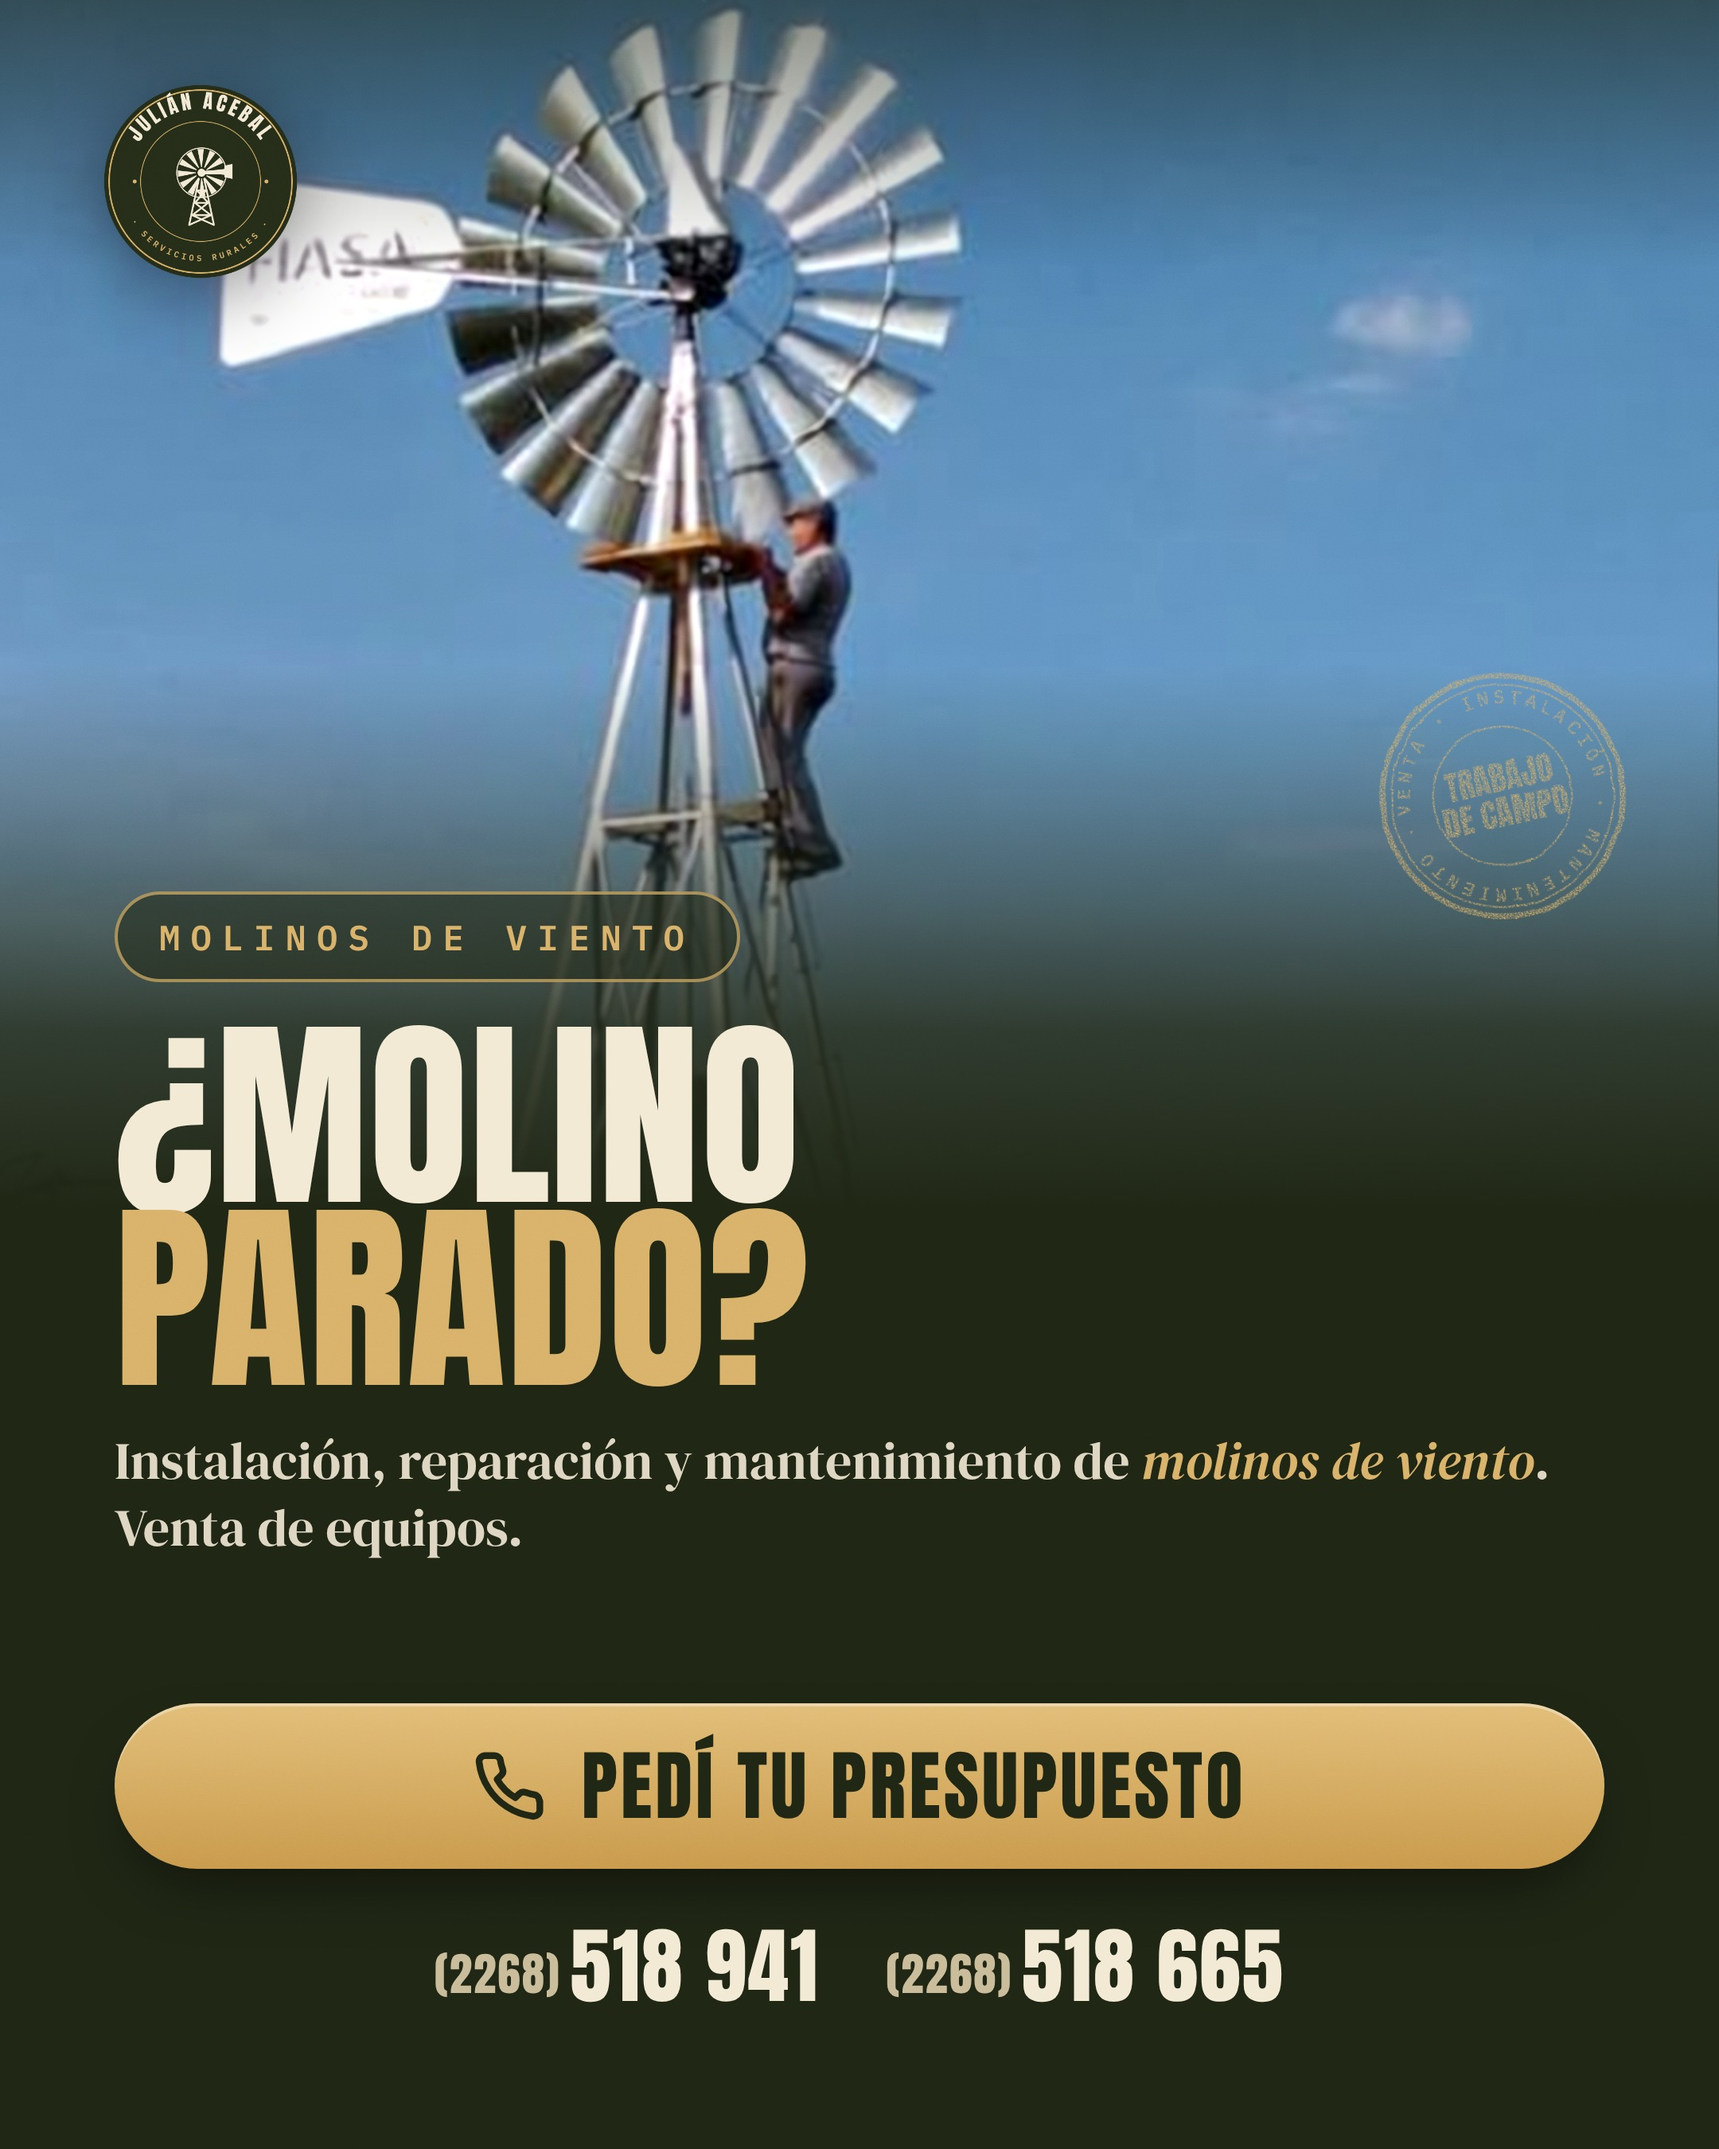
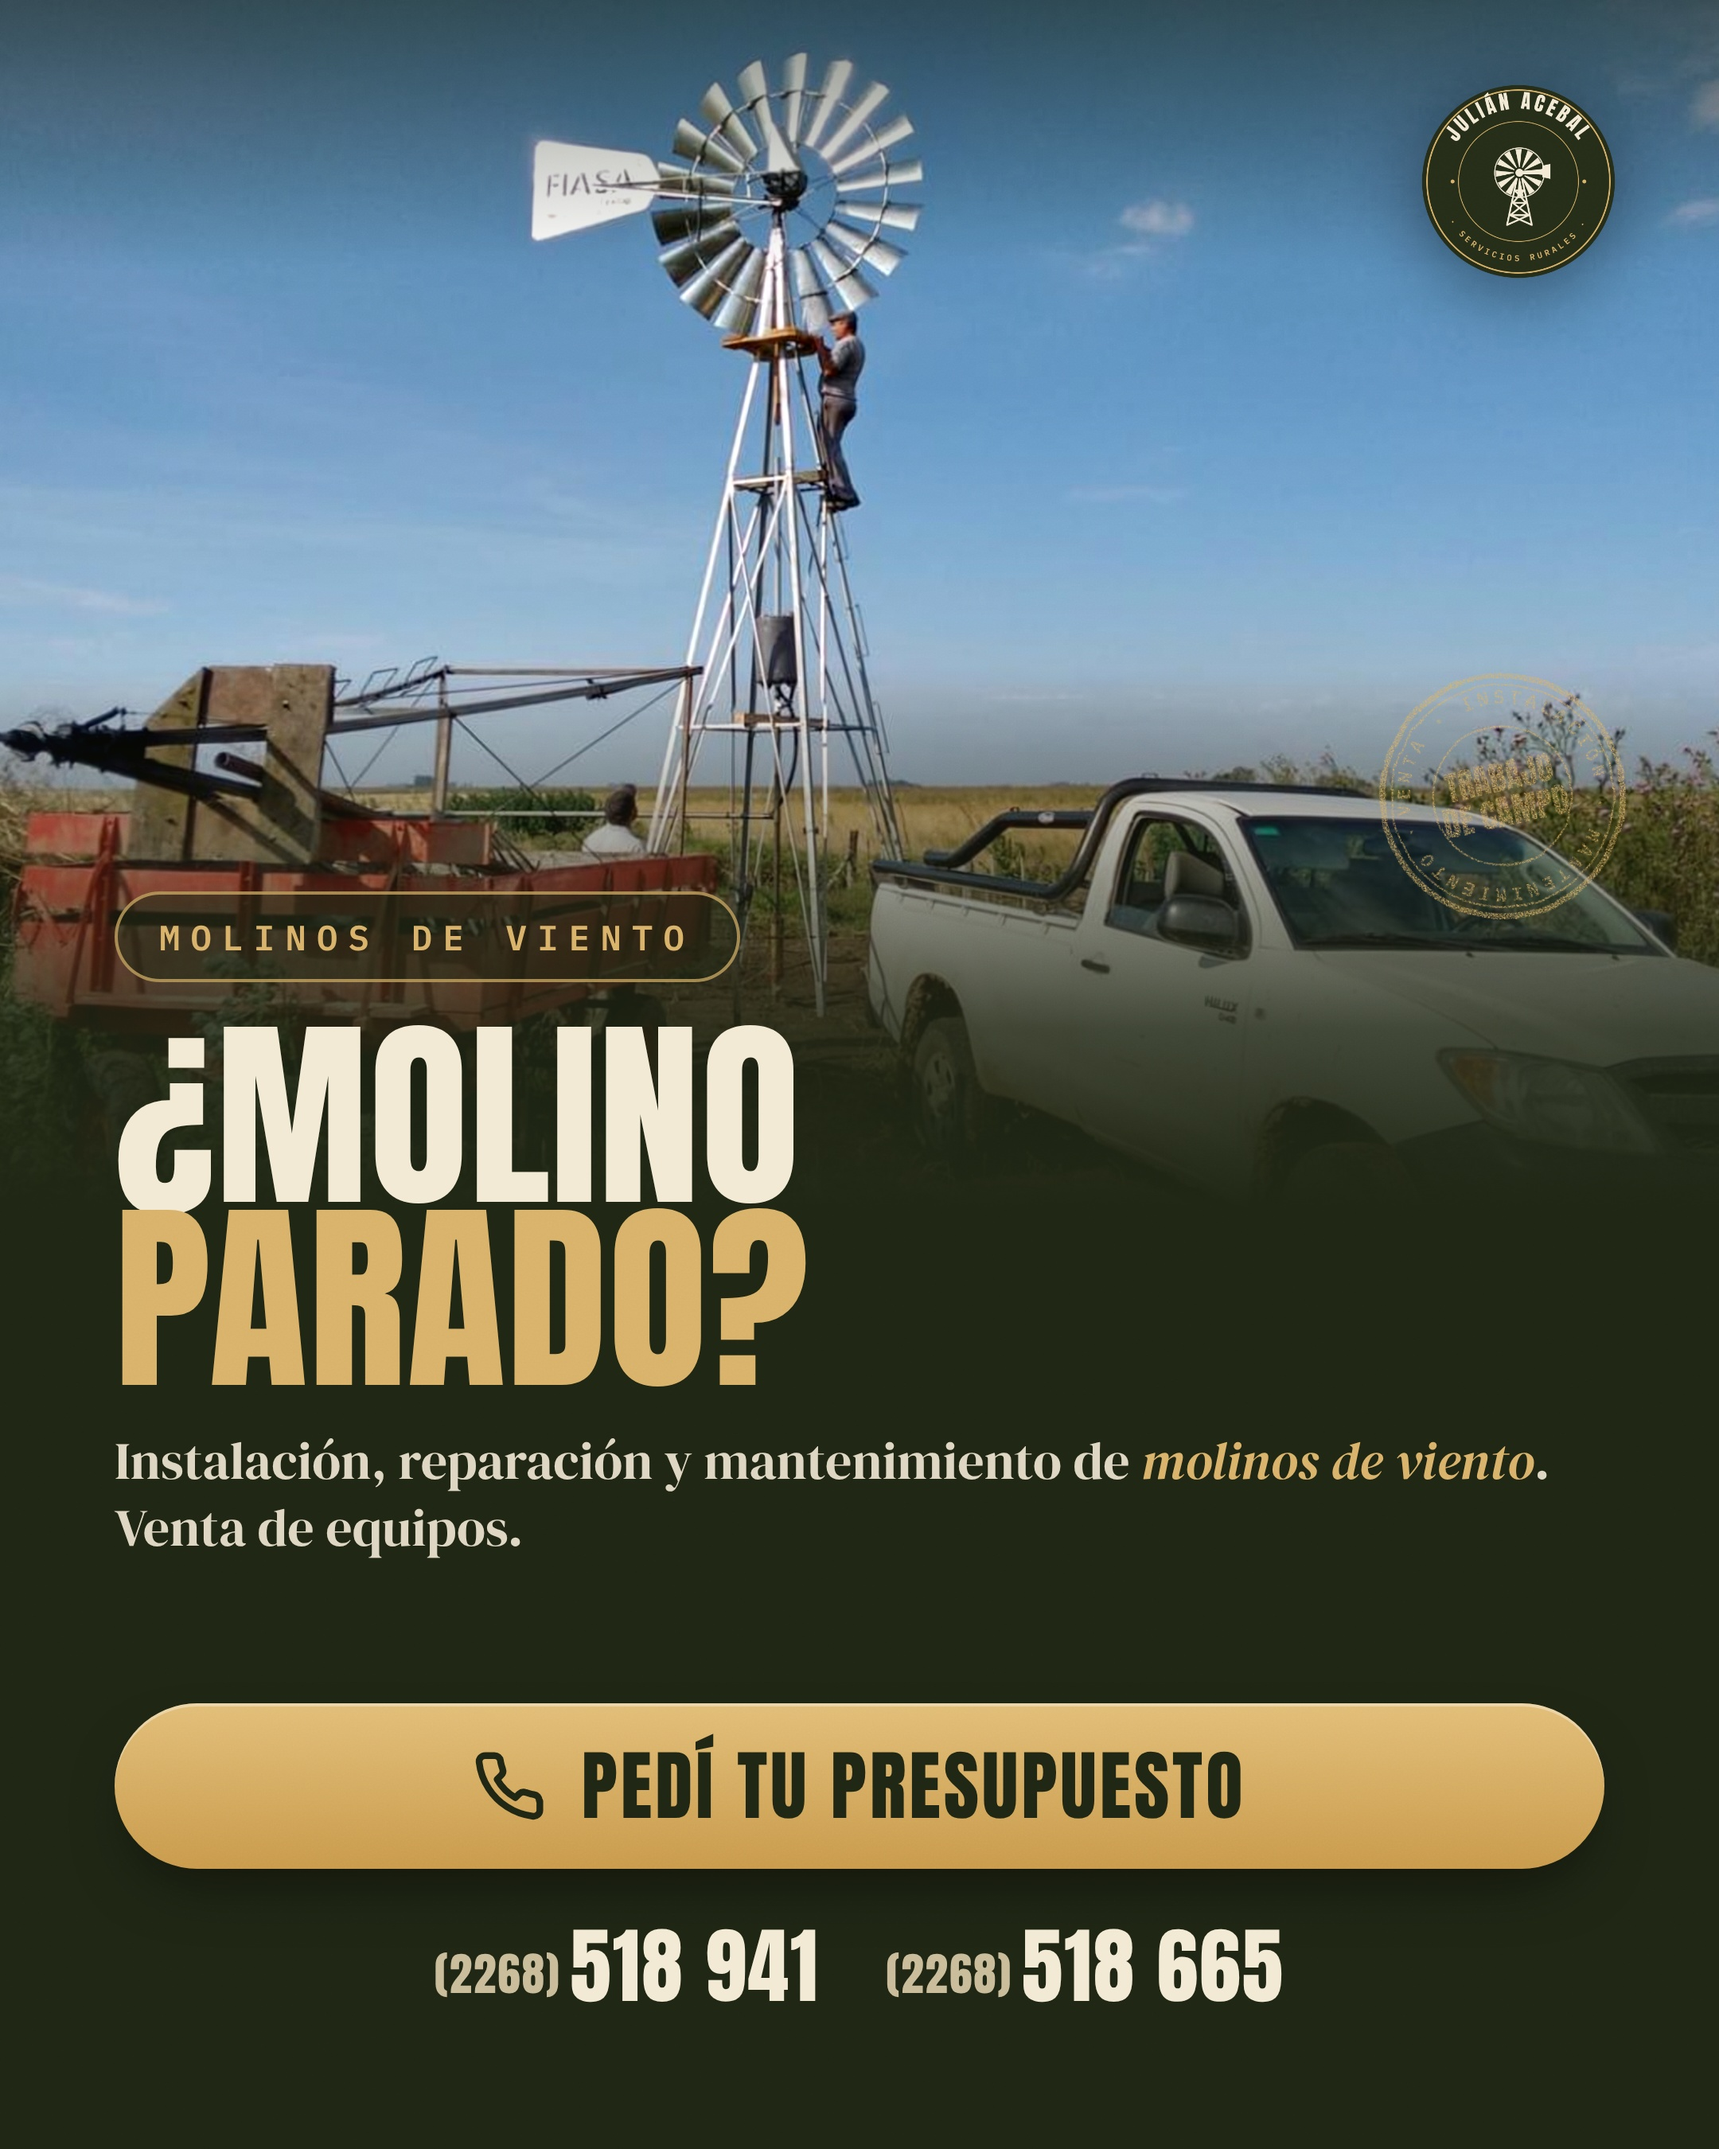
Usar la foto original del molino escalada con IA; flyers y campañas en 4K (PNG y JPG)
Claude-Session: https://claude.ai/code/session_015aPumiBcapQc9Zahey1MkY

diff --git a/flyer-molinero/flyer.html b/flyer-molinero/flyer.html
@@ -26,7 +26,7 @@
   .hero img{width:100%;height:100%;object-fit:cover;filter:contrast(1.06) saturate(1.02)}
   .hero::after{content:"";position:absolute;inset:0;background:
     linear-gradient(180deg,rgba(21,26,13,.55) 0%,rgba(21,26,13,0) 20%,rgba(21,26,13,0) 52%,rgba(31,38,20,.88) 88%,var(--musgo-osc) 100%)}
-  .hero .tag{position:absolute;left:48px;bottom:200px;display:flex;align-items:center;gap:14px;font-size:18px;color:var(--ocre-cl);z-index:2}
+  .hero .tag{position:absolute;left:48px;bottom:200px;display:flex;align-items:center;gap:14px;font-size:18px;color:var(--ocre-cl);z-index:2;text-shadow:0 2px 8px rgba(0,0,0,.9),0 0 2px rgba(0,0,0,.8)}
   .hero .tag i{width:54px;border-top:2px solid var(--ocre-cl)}
 
   .topbar{position:absolute;left:48px;right:48px;display:flex;align-items:center;gap:18px;z-index:5;font-size:17px;color:rgba(243,234,213,.85)}

diff --git a/flyer-molinero/campana/campana.html b/flyer-molinero/campana/campana.html
@@ -88,7 +88,7 @@ const L=FORMAT==="story"
 document.getElementById("root").innerHTML=`
 <div class="ad ${FORMAT}">
   <div class="hero" style="height:${L.hero}px"><img src="../video/hd/${d.img}" style="object-position:${d.pos}"></div>
-  <img class="logo" src="../marca/logo-badge-musgo.png" style="top:${L.logo[0]}px;width:${L.logo[1]}px;${d.logoLeft?"left:56px;transform:none":""}">
+  <img class="logo" src="../marca/logo-badge-musgo.png" style="top:${L.logo[0]}px;width:${L.logo[1]}px;${d.logoLeft?"left:auto;right:56px;transform:none":""}">
   <div style="position:absolute;right:56px;top:${L.stamp[0]}px;width:${L.stamp[1]}px;height:${L.stamp[1]}px;z-index:6">${stamp(L.stamp[1],-12)}</div>
 
   <div class="body" style="top:${L.body}px">
